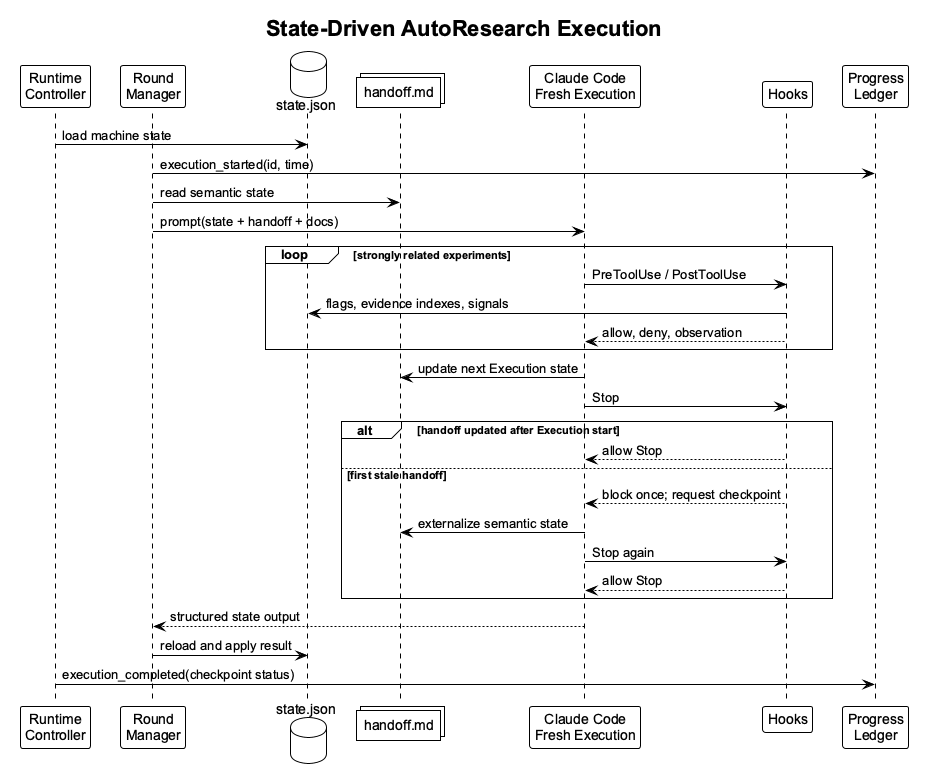
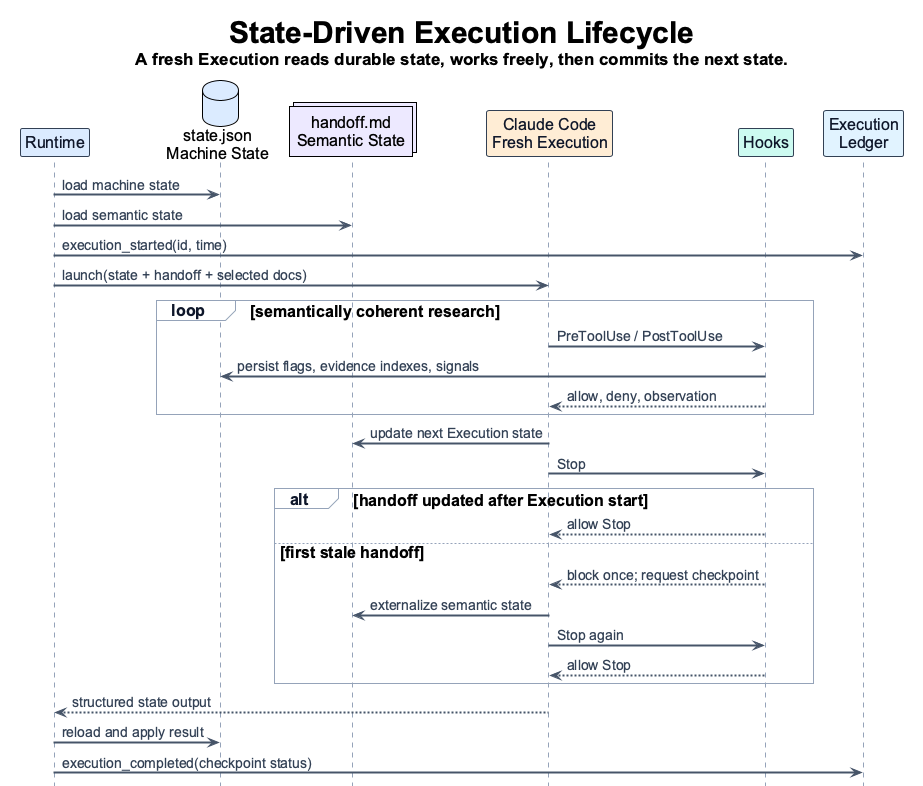
Refine state-driven architecture diagrams

diff --git a/README.md b/README.md
@@ -25,11 +25,11 @@ conversation context.
 
 > Context is not memory. Durable state is memory.
 
+![State-Driven AutoResearch Loop](docs/architecture/diagrams/state-driven-autoresearch-loop.png)
+
 AIxCTF is an early CTF AutoResearch implementation. It is not a benchmark
 claim, a production-grade sandbox, or a promise that Claude Code can solve
 every CTF challenge.
-
-![Execution and State Separation](docs/architecture/diagrams/execution-state-separation.svg)
 
 ## Two design principles
 
@@ -54,6 +54,8 @@ challenge
   -> hook checkpoints
   -> state, evidence, handoff, and result
 ```
+
+![Execution and State Separation](docs/architecture/diagrams/execution-state-separation.svg)
 
 A chat transcript is transient and difficult to audit. AIxCTF instead records
 each challenge in an isolated workspace so a run can be inspected and resumed

diff --git a/docs/architecture/diagrams/README.md b/docs/architecture/diagrams/README.md
@@ -4,6 +4,7 @@ PlantUML sources, rendered PNGs, and README SVG visuals are kept together.
 
 | Diagram | Source | Rendered |
 |---|---|---|
+| State-Driven AutoResearch Loop | [state-driven-autoresearch-loop.puml](state-driven-autoresearch-loop.puml) | [state-driven-autoresearch-loop.png](state-driven-autoresearch-loop.png) |
 | Execution and State Separation | [execution-state-separation.svg](execution-state-separation.svg) | [execution-state-separation.svg](execution-state-separation.svg) |
 | System Architecture | [system-architecture.puml](system-architecture.puml) | [system-architecture.png](system-architecture.png) |
 | Parallel Challenge Scheduling | [parallel-challenge-scheduling.puml](parallel-challenge-scheduling.puml) | [parallel-challenge-scheduling.png](parallel-challenge-scheduling.png) |
